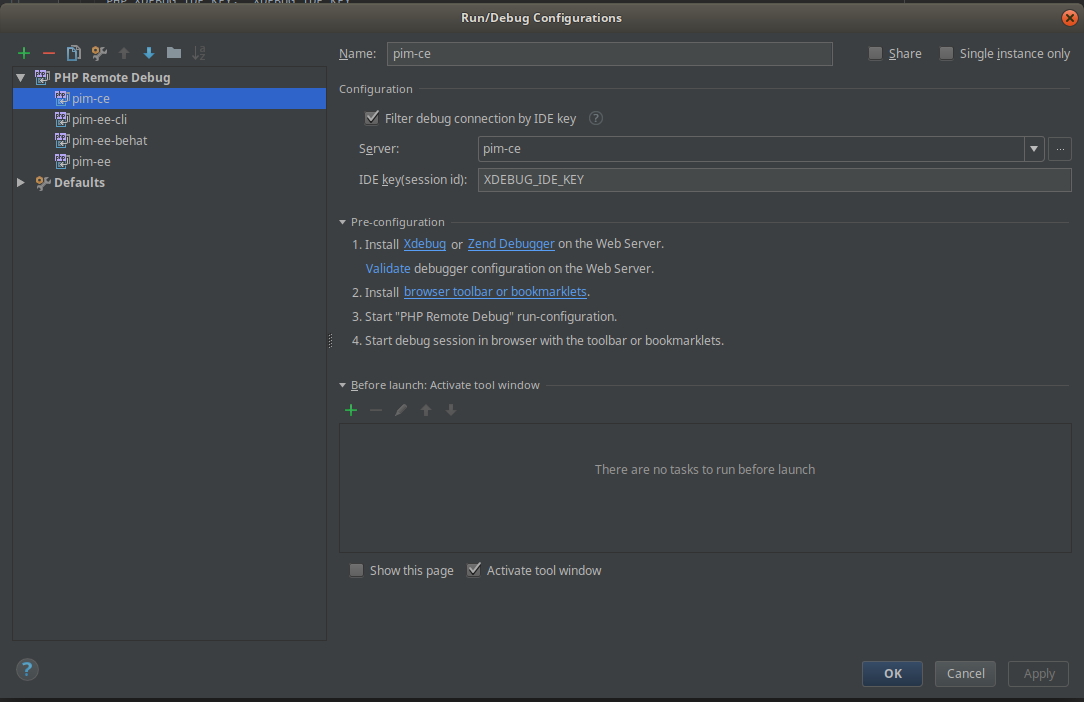
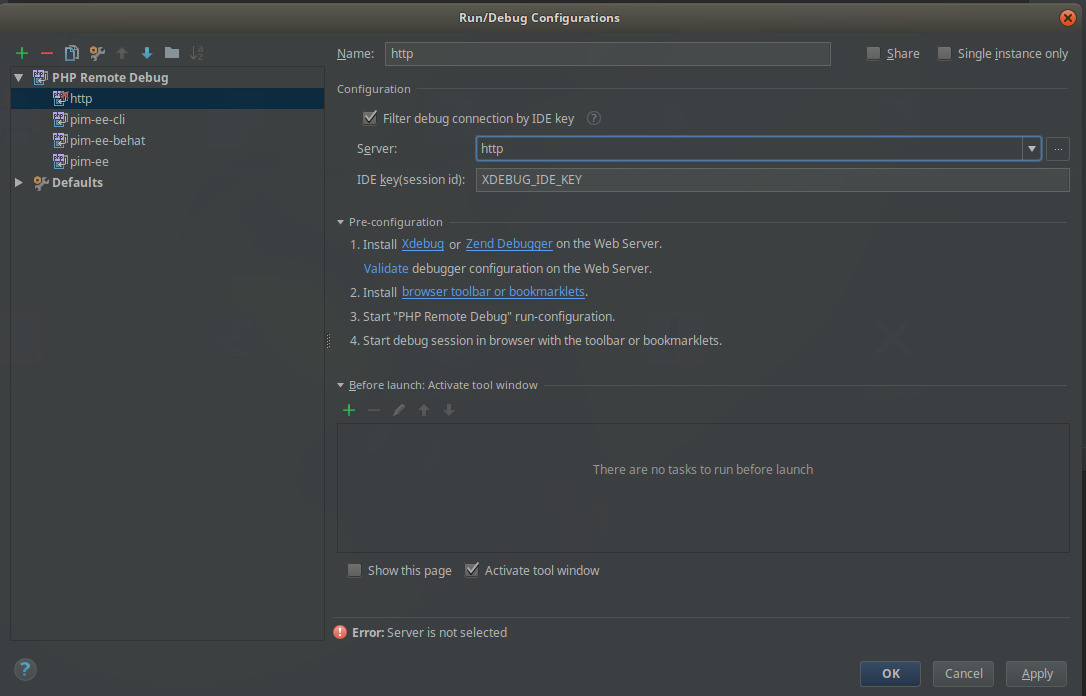
Issue-174: Fix comments

diff --git a/Docs/debugging.md b/Docs/debugging.md
@@ -1,30 +1,31 @@
 # Debugging
 
-The content of this guide will help you to configure your PHPStorm in order to debug the PIM.
-The following doc is about Linux only and is not tested on other OS.
+The content of this guide will help you to configure PHPStorm in order to debug a PHP Application.
+The following documentation is tested with Linux, but might be easily adaptable for other host systems.
 
 ## Container config
 
-*Xdebug* is deactivated by default. If you want to activate it, you need to set the following environment variables,
- in this case we use a part of the default configuration of the Akeneo PIM 2.0 which use fpm and httpd but this is the same spirit for others versions:
+*Xdebug* is deactivated by default. If you want to activate it, you need to set the following environment variables.
+
+In this case we use a part of the default configuration of a php-fpm and httpd application but this is the same vein for other versions:
 ```yaml
 services:
   fpm:
     image: akeneo/fpm:php-7.1
     environment:
-      PHP_IDE_CONFIG: 'serverName=pim-ce-cli' # Your will need the server name for your IDE config
+      PHP_IDE_CONFIG: 'serverName=cli' # Your will need the server name for your IDE config
       PHP_XDEBUG_ENABLED: 1 # Set to 0 if you don't want to activate xdebug
       PHP_XDEBUG_IDE_KEY: 'XDEBUG_IDE_KEY' # the IDE KEY you want to use
-      XDEBUG_CONFIG: 'remote_host=xxx.xxx.xxx.xxx' # Your host IP address, this one is needed only if the docker daemon run on TCP instead of unix domain socket (on Mac OS for instance)
+      XDEBUG_CONFIG: 'remote_host=xxx.xxx.xxx.xxx' # Your host IP address, useful for CLI debugging
     volumes:
-      - ./:/srv/pim
+      - ./:/srv/application
 
-  httpd:
+  http:
       image: httpd:2.4
       depends_on:
         - fpm
       environment:
-        PHP_IDE_CONFIG: 'serverName=pim-ce' # Your will need the server name for your IDE config
+        PHP_IDE_CONFIG: 'serverName=browser' # Your will need the server name for your IDE config
       ports:
         - '8080:80' # You will need the 8080 for your configuration
 ```
@@ -35,43 +36,42 @@ Then you just have to run `docker-compose up -d` again and XDebug will be activa
 
 ### PHPStorm
 
-First of all, you have to setup your server, in PHPStorm go on the `Setting > Servers` section.
-Then you have to add one, and configure like this.
+First of all, you have to setup your server. Go in PHPStorm ... `Settings > Servers` section, then add a new one, and configure it as above
 
 ![edit_server](./xdebug/phpstorm_server.png)
 
 You can see that:
-- The name is the same than my `serverName` of my container configuration
+- The server name is the same than `serverName` used in the compose file
 - The host is `localhost`
-- The port is the one which is accessible from your host (in the case of cli, the port to use use is `80`)
-- The absolute path on server mapping is the one that you configure in your server, here `/srv/pim`
+- The port is the one which is accessible from your host (in the case of cli, the port to use is `80`)
+- The absolute path on server mapping is the one that you configure in your server, here `/srv/application`
 
-You will have to duplicate it for all your servers, in the case of a PIM installation, you will have to setup
-- pim-ce
-- pim-ce-behat
-- pim-cli
+You will have to duplicate it for all your servers, in the case of a PHP installation with a CLI and a HTTP Server, you will have to setup
+- cli
+- http
 
-Then, you have to setup the configuration of your debugger, you can find under the Menu `Run > Edit Configurations...`
-Then, click on `+` and choose `PHP Remote Debug` and configure a remote debug like this
+Then, you have to setup the configuration of your debugger. You can find under the Menu `Run > Edit Configurations...`
+Click on `+` and choose `PHP Remote Debug` and configure a remote debug like this
 
 ![edit_configuration](./xdebug/phpstorm_configuration.png)
 
 You can see that:
-- You have to choose a name, we generally choose to name it the same way than you server (here `pim-ce`)
+- You have to choose a name, we generally choose the same name than your server (here `http`)
 - You have to check `Filter debug connection by IDE key`
-- You have to select the corresponding server (here `pim-ce`)
+- You have to select the corresponding server (here `http`)
 - You have to enter the `IDE key (session_id)`, here the default one `XDEBUG_IDE_KEY`
 
-Then, you have to enable XDebug in your PHPSTORM as you would do for all PHP applications.
+Then, you have to enable XDebug in PHPStorm as you would do for any other PHP application.
+
+![xdebug_enabled](./xdebug/xdebug_enabled.png)
 
 ### Google Chrome
 
 You will have to download a plugin such as [xdebug helper](https://chrome.google.com/webstore/detail/xdebug-helper/eadndfjplgieldjbigjakmdgkmoaaaoc)
 
-And the configure it like this 
+Configure it as follow:
 
 ![xdebug_helper](./xdebug/xdebug_helper.png)
 
-You can see that:
-- You have to change the `IDE key` by `Other` and the key you have chosen (here `XDEBUG_IDE_KEY`)
+You have to change the `IDE key` by `Other` and the key you have chosen (here `XDEBUG_IDE_KEY`)
 

diff --git a/README.md b/README.md
@@ -41,7 +41,7 @@ And even if you are not new, it is a good start to understand how these images a
 Then, you can find out how to use these images in detail:
 - for PHP application development in the [Symfony docker-compose section](https://github.com/akeneo/Dockerfiles/blob/master/Docs/symfony/compose.md).
 - for Akeneo development and behat testing in the [official Akeneo documentation](https://docs.akeneo.com/).
-- for using XDebug on your IDEs please follow the [guide](https://github.com/akeneo/Dockerfiles/blob/master/Docs/symfony/debugging.md).
+- for using XDebug on your IDEs please follow this [guide](https://github.com/akeneo/Dockerfiles/blob/master/Docs/symfony/debugging.md).
 
 Please read carefully the [troubleshoothing section](https://github.com/akeneo/Dockerfiles/blob/master/Docs/troubleshooting.md) if you encounter any problem.
 If your problem is not listed in it, don't hesitate to [open an issue](https://github.com/akeneo/Dockerfiles/issues).
